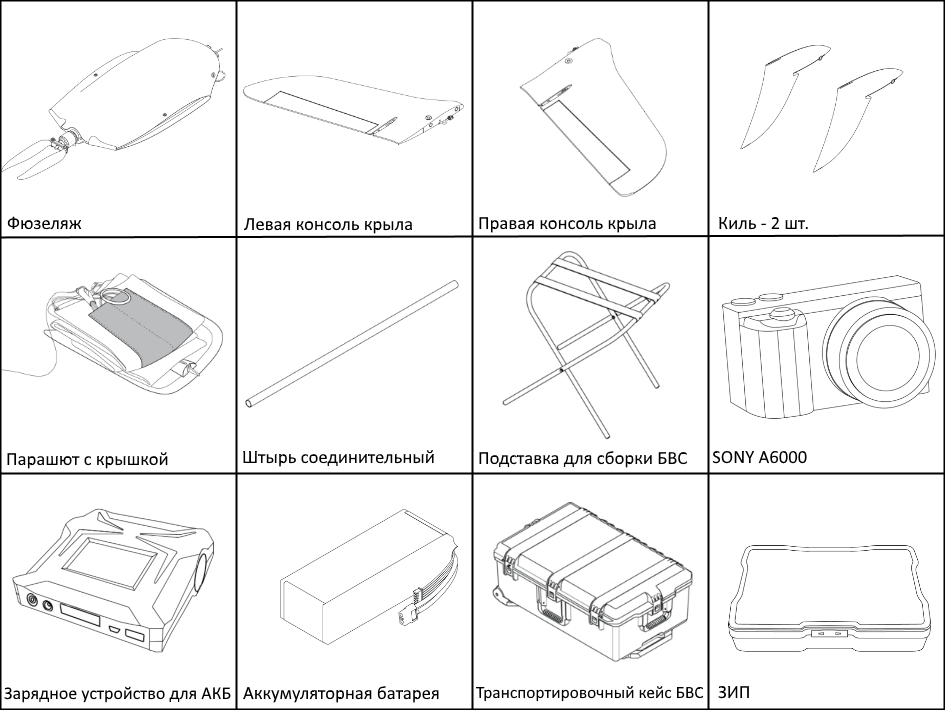
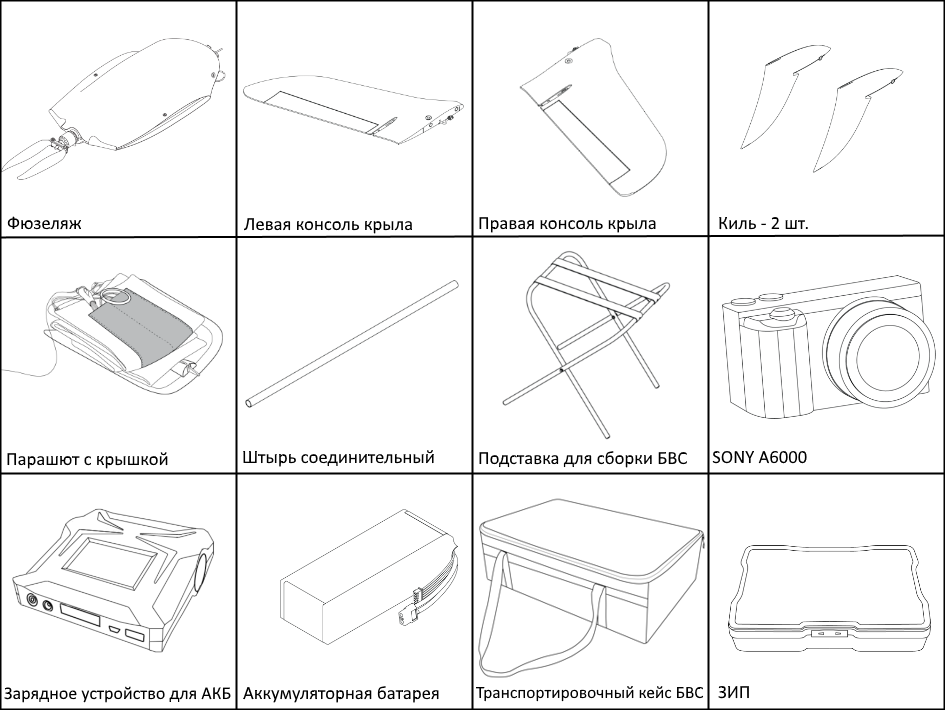
Новая сумка. index - теперь содержание. Новая картинка БВС

Changed region(s): [[0.491, 0.6817, 0.7672, 0.9296], [0.491, 0.8986, 0.5831, 0.9606]]

diff --git a/conf.py b/conf.py
@@ -88,10 +88,12 @@ def setup(app):
 #
 html_theme_options = {
     'logo_only': True,
+'collapse_navigation': False,
 }
 html_logo = "_static/_images/logo.png"
 html_favicon = "_static/_images/favicon.ico"
 html_show_sphinx = False
+
 
 # Add any paths that contain custom static files (such as style sheets) here,
 # relative to this directory. They are copied after the builtin static files,
@@ -139,10 +141,12 @@ latex_elements = {
 ''',
     # Additional stuff for the LaTeX preamble.
     'preamble': r"""
+    \setcounter{page}{3}
     \usepackage{setspace}
     \usepackage{fontspec}
     \setmainfont[Ligatures=TeX]{Georgia}
     \setsansfont[Ligatures=TeX]{Arial}
+
     """,
 
 }

diff --git a/index.rst b/index.rst
@@ -3,107 +3,8 @@
    You can adapt this file completely to your liking, but it should at least
    contain the root `toctree` directive.
 
-+-------------------------------------------------------+
-|`Перейти на сайт компании <https://www.geoscan.aero/>`_|
-+-------------------------------------------------------+
-
 **Сборка и эксплуатация комплекса Геоскан Lite**
 --------------------------------------------------
-
-.. image:: _static/_images/101.png
-   :align: center
-
-
-**Общие сведения**
-
-
-Геоскан Lite - компактный беспилотный комплекс для аэрофотосъемки.
-
-
-**Назначение**
-
-Комплекс Геоскан Lite предназначен для получения геопривязанных фотографий объектов и автоматической площадной аэрофотосъемки.
-
-
-**Область применения**
-
-Полученные с использованием комплекса материалы могут использоваться для:
-
-* оценки состояния местности;
-* выполнения аэрофотосъемки местности с фиксацией моментов фотографирования для получения геопривязанных фотографий;
-* создания ортофотопланов и цифровых моделей местности по материалам аэрофотосъемки;
-* создания карт высот;
-* создания 3D моделей местности;
-* вычисления объемов пород в карьерах и насыпных объектах.
-
-
-**Комплект поставки**
-
-* Беспилотное воздушное судно (БВС) Геоскан Lite
-* Транспортировочный кейс БВС
-* Пусковая установка в транспортировочной сумке
-* Модернизированный фотоаппарат Sony A6000
-* Аккумуляторная батарея (АКБ) LiPo 14,8 В
-* Модем КРЛ с антенной
-* Зарядное устройство для АКБ
-* ПО для планирования полетного задания Geoscan Planner
-* Раскладная подставка для сборки планера
-* Комплект ЗИП: 
-
-   * киль - 2 шт;
-   * комплект резиновых жгутов для катапульты;
-   * шомпол приемника воздушного давления;
-   * приемник воздушного давления;
-   * лопасти воздушного винта 10x8;
-   * кабель USB для фотоаппарата.
-
-
-
-**Технические характеристики**
-
-
-.. csv-table:: 
-   :header: "Параметр", "Значение"
-
-   "Тип БВС", "летающее крыло"
-   "Скорость полета (воздушная)", "72 - 108 км/ч"
-   "Максимальная взлетная масса", "3,1 кг"
-   "Максимальная масса полезной нагрузки", "0,8 кг"
-   "Площадь фотосъемки за один полет","до 9 км²"
-   "Допустимая скорость ветра","до 12 м/с"
-   "Размах крыла", "1,38 м"
-   "Минимальная безопасная высота полета","100 м"
-   "Максимальная высота полета","4000 м"
-   "Двигатель","электрический, бесколлекторный"
-   "Аккумуляторная батарея","LiPo 14,8 В"
-   "Время подготовки к взлету","10 мин"
-   "Продолжительность полета", "до 60 мин"
-   "Максимальная протяженность маршрута","70 км"
-   "Посадка","на парашюте, в автоматическом режиме"
-   "Рабочий диапазон температур:","от -20 до +40 °С"
-
-
-
-
-**Обслуживание**
-
-
-После каждого полета осматривайте БВС на предмет повреждений.
-
-В случае повреждения лопастей винта или килей вы можете заменить их самостоятельно, используя запасные части и инструменты из комплекта.
-
-При выявлении конструкционных повреждений планера или систем необходимо обратиться в `службу технической поддержки <https://www.geoscan.aero/ru/support>`_.
-
-После выполнения 80 полетов рекомендуется отправить БВС на завод-изготовитель для проверки и технического обслуживания.
-
-
-
-**Хранение**
-
-
-Комплекс Геоскан Lite (без аккумуляторных батарей) рекомендуется хранить в транспортировочном кейсе (пусковую установку - в сумке) в сухих помещениях при температуре от 5 до 25 °С и относительной влажности не более 80%, без конденсации. Срок хранения - 2 года.
-
-Аккумуляторные батареи хранить в сухом прохладном месте, исключающем воздействие прямых солнечных лучей, при температуре от 5 до 25 °С и относительной влажности не более 80%, без конденсации. Оптимальная температура - от 5 до 10 °С. Оптимальный уровень напряжения АКБ при хранении: 15,4 В  (подробнее см. :doc:`charger`). Срок хранения - 1 год.
 
 .. toctree::
    :maxdepth: 2

diff --git a/launch.rst b/launch.rst
@@ -20,3 +20,28 @@
 
 11. После запуска БВС ослабьте натяжение резиновых жгутов. Для этого одной рукой придерживайте ручку лебедки, а второй - снимите стопор лебедки и плавно размотайте натяжной трос.
 После этого жгуты можно снять с пусковой установки, отсоединив карабин от троса и петлю от каретки.
+
+
+Разборка БВС после выполнения полетного задания
+====================================================
+
+1) Снимите верхнюю крышку фюзеляжа. Для этого отстегните резиновые фиксаторы на носовой части фюзеляжа, затем выньте заднюю часть крышки из пазов.
+2) Отключите питание.
+
+Карта памяти также может быть извлечена для обработки результатов съемки. 
+
+3) Сложите парашют гармошкой и аккуратно уложите в парашютный отсек.
+4) Закройте крышку парашютного отсека, сдвинув в сторону поводок машинки отцепа.
+5) Закройте верхнюю крышку фюзеляжа, вставив заднюю часть крышки в пазы и застегнув резиновые фиксаторы.
+
+БВС может быть перемещено на подставку для осуществления разборки.
+
+6) Уложите БВС на подставку.
+7) Отсоедините кили, оттянув магнитные фиксаторы.
+8) Снимите верхнюю крышку фюзеляжа.
+9) Извлеките АКБ, отстегнув текстильную застежку.
+10) Отсоедините кабельные сборки консолей от автопилота.
+11) Снимите консоли крыла, оттянув их в стороны.
+12) Вытяните соединительный штырь из фюзеляжа.
+13) Закройте верхнюю крышку фюзеляжа, вставив заднюю часть крышки в пазы и застегнув резиновые фиксаторы.
+14) Уложите детали в транспортировочный кейс БВС.

diff --git a/uav.rst b/uav.rst
@@ -14,7 +14,7 @@
 -------------
 
 1) Извлеките консоли крыла и фюзеляж из транспортировочного кейса.
-2) Уложите парашют в соответствующий отсек в фюзеляже (порядок укладки см. в разделе **Парашютная система**).
+2) Уложите парашют в соответствующий отсек в фюзеляже (см. **Парашютная система**).
 3) Снимите верхнюю крышку фюзеляжа. Для этого отстегните резиновые фиксаторы на носовой части фюзеляжа, затем извлеките заднюю часть крышки из пазов.
 
 .. figure:: _static/_images/asmbl1.png
@@ -87,8 +87,6 @@
 
 
 БВС готово к прохождению предстартовой подготовки.
-
-
 
 
 Парашютная система

diff --git a/reference.rst b/reference.rst
@@ -1,5 +1,8 @@
+
 Общие сведения
 =================
+.. image:: _static/_images/101_1.png
+   :align: center
 
 Геоскан Lite – компактный беспилотный комплекс для аэрофотосъемки.
 

diff --git a/camera.rst b/camera.rst
@@ -9,6 +9,7 @@
 С помощью диска управления установите следующие параметры:
 
 .. csv-table:: 
+   :align: center
    
    "выдержка", "1/800"
    "ISO", "Auto"
